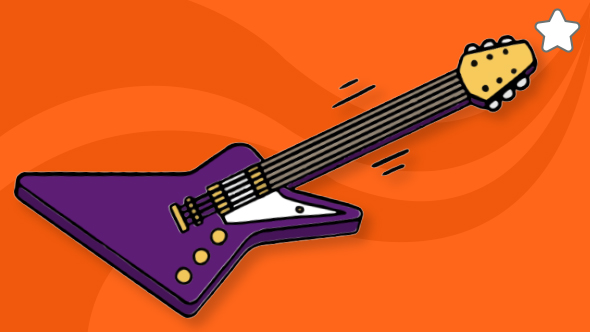
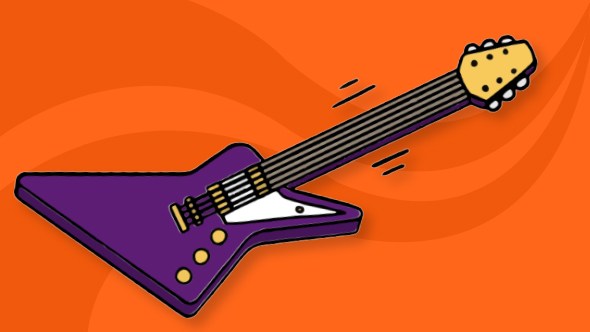
Updates to Tutorials Library
•All of the thumbnail images have been updated
•All of the videos have been updated
•New steps were added to Make a Game

Changed region(s): [[0.8847, 0.0301, 1.0, 0.1807]]

diff --git a/src/lib/libraries/decks/index.jsx b/src/lib/libraries/decks/index.jsx
@@ -42,6 +42,10 @@ import stepScoreWhenTouch from './chase-game/chase-game-change-score.gif';
 
 // Make-A-Game
 import libraryMakeAGame from './game/lib-pop.jpg';
+import stepGamePickSprite from './game/game-pick-sprite.gif';
+import stepGamePlaySound from './game/game-play-sound.gif';
+import stepGameAddScore from './game/game-add-score.gif';
+import stepGameChangeScore from './game/game-change-score.gif';
 import stepRandom from './game/game-random-position.gif';
 import stepGameChangeColor from './game/game-change-color.gif';
 import stepResetScore from './game/game-reset-score.gif';
@@ -70,7 +74,7 @@ export default {
 
         img: libraryIntro,
         steps: [{
-            video: 'https://www.youtube.com/embed/4CexmCCREZw'
+            video: 'https://www.youtube.com/embed/h9x8IPGN3SI'
         }, {
             title: (
                 <FormattedMessage
@@ -108,7 +112,7 @@ export default {
         ),
         img: libraryAnimate,
         steps: [{
-            video: 'https://www.youtube.com/embed/q3nnXj6wr5k'
+            video: 'https://www.youtube.com/embed/RUih6RnEdPg'
         }, {
             title: (
                 <FormattedMessage
@@ -182,7 +186,7 @@ export default {
         ),
         img: libraryMakeMusic,
         steps: [{
-            video: 'https://www.youtube.com/embed/o3ih7d_4uv0'
+            video: 'https://www.youtube.com/embed/UQHHAQGuhl8'
         },
         {
             title: (
@@ -250,14 +254,51 @@ export default {
         ),
         img: libraryMakeAGame,
         steps: [{
-            video: 'https://www.youtube.com/embed/XIz32K91vAk'
+            video: 'https://www.youtube.com/embed/3G2miGV4TbQ'
         },
         {
             title: (
                 <FormattedMessage
+                    defaultMessage="Pick A Sprite"
+                    description="Step name for 'Pick A Sprite' step"
+                    id="gui.howtos.Make-A-Game.step_GamePickSprite"
+                />
+            ),
+            image:  stepGamePickSprite
+        }, {
+            title: (
+                <FormattedMessage
+                    defaultMessage="Play Sound When Clicked"
+                    description="Play Sound When Clicked' step"
+                    id="gui.howtos.make-a-game.step_GamePlaySound"
+                />
+            ),
+            image:  stepGamePlaySound
+          }, {
+            title: (
+                <FormattedMessage
+                    defaultMessage="Create Score Variable"
+                    description="Step name for 'Create Score Variable' step"
+                    id="gui.howtos.make-a-game.step_GameAddScore"
+                />
+            ),
+            image:  stepGameAddScore
+          }, {
+            title: (
+                <FormattedMessage
+                    defaultMessage="When Clicked Increase Score"
+                    description="Step name for 'When Clicked Increase Score' step"
+                    id="gui.howtos.make-a-game.step_GameChangeScore"
+                />
+            ),
+
+            image: stepGameChangeScore
+        }, {
+            title: (
+                <FormattedMessage
                     defaultMessage="Go to a random position"
                     description="Step name for 'Go to a random position' step"
-                    id="gui.howtos.Make-A-Game.step_RandomPosition"
+                    id="gui.howtos.make-a-game.step_Random"
                 />
             ),
             image: stepRandom
@@ -266,7 +307,7 @@ export default {
                 <FormattedMessage
                     defaultMessage="Change Color"
                     description="Step name for 'Change Color' step"
-                    id="gui.howtos.make-a-game.step_ChangeColor"
+                    id="gui.howtos.make-music.step_GameChangeColor"
                 />
             ),
             image: stepGameChangeColor
@@ -282,8 +323,8 @@ export default {
         }, {
             deckIds: [
                 'add-a-backdrop',
-                'add-effects',
-                'move-around-with-arrow-keys'
+                'move-around-with-arrow-keys',
+                'add-effects'
             ]
         }
         ]
@@ -299,7 +340,7 @@ export default {
         ),
         img: libraryChaseGame,
         steps: [{
-            video: 'https://www.youtube.com/embed/PoQO35QmlVA'
+            video: 'https://www.youtube.com/embed/IRf9-P8PiZo'
         },
         {
             title: (
@@ -430,12 +471,12 @@ export default {
         ),
         img: addBackdropThumb,
         steps: [{
-            video: 'https://www.youtube.com/embed/WpV05Q7AbPU'
+            video: 'https://www.youtube.com/embed/Xv3Z80yy2l0'
         }, {
             deckIds: [
-                'add-a-backdrop',
+                'change-size',
                 'switch-costume',
-                'change-size'
+                'spin-video'
             ]
         }]
     },
@@ -449,12 +490,12 @@ export default {
         ),
         img: changeSizeThumb,
         steps: [{
-            video: 'https://www.youtube.com/embed/NiK9KcghZ9s'
+            video: 'https://www.youtube.com/embed/PJijGbhcT3E'
         }, {
             deckIds: [
-                'add-a-backdrop',
-                'switch-costume',
-                'change-size'
+                'glide-around',
+                'spin-video',
+                'switch-costume'
             ]
         }]
     },
@@ -468,7 +509,7 @@ export default {
         ),
         img: glideAroundThumb,
         steps: [{
-            video: 'https://www.youtube.com/embed/WUcmsMEIbGg'
+            video: 'https://www.youtube.com/embed/KYmbgLX1xDs'
         }, {
             deckIds: [
                 'add-a-backdrop',
@@ -488,7 +529,7 @@ export default {
         ),
         img: recordASound,
         steps: [{
-            video: 'https://www.youtube.com/embed/epZQpVdf884'
+            video: 'https://www.youtube.com/embed/1WaU6e70Zig'
         }, {
             deckIds: [
                 'Make-Music',
@@ -502,7 +543,7 @@ export default {
         name: 'Make It Spin',
         img: spinThumb,
         steps: [{
-            video: 'https://www.youtube.com/embed/rHP3aojB_6w'
+            video: 'https://www.youtube.com/embed/C76V5cuI9XM'
         }, {
             deckIds: [
                 'add-a-backdrop',
@@ -521,7 +562,7 @@ export default {
         ),
         img: hideAndShowThumb,
         steps: [{
-            video: 'https://www.youtube.com/embed/jpvqnlfsDTU'
+            video: 'https://www.youtube.com/embed/6yWUvRU19ms'
         }, {
             deckIds: [
                 'add-a-backdrop',
@@ -541,7 +582,7 @@ export default {
         ),
         img: switchCostumeThumb,
         steps: [{
-            video: 'https://www.youtube.com/embed/AUBoFxQDPWA'
+            video: 'https://www.youtube.com/embed/vppgw1Xiegw'
         }, {
             deckIds: [
                 'add-a-backdrop',
@@ -555,7 +596,7 @@ export default {
         name: 'Use Arrow Keys',
         img: moveArrowKeysThumb,
         steps: [{
-            video: 'https://www.youtube.com/embed/7DUA_Yl0B_M'
+            video: 'https://www.youtube.com/embed/uf6agkKnXJw'
         }, {
             deckIds: [
                 'add-a-backdrop',
@@ -574,7 +615,7 @@ export default {
         ),
         img: addEffectsThumb,
         steps: [{
-            video: 'https://www.youtube.com/embed/ORuohhkx15g'
+            video: 'https://www.youtube.com/embed/w3kGWEzRtxY'
         }, {
             deckIds: [
                 'add-a-backdrop',
